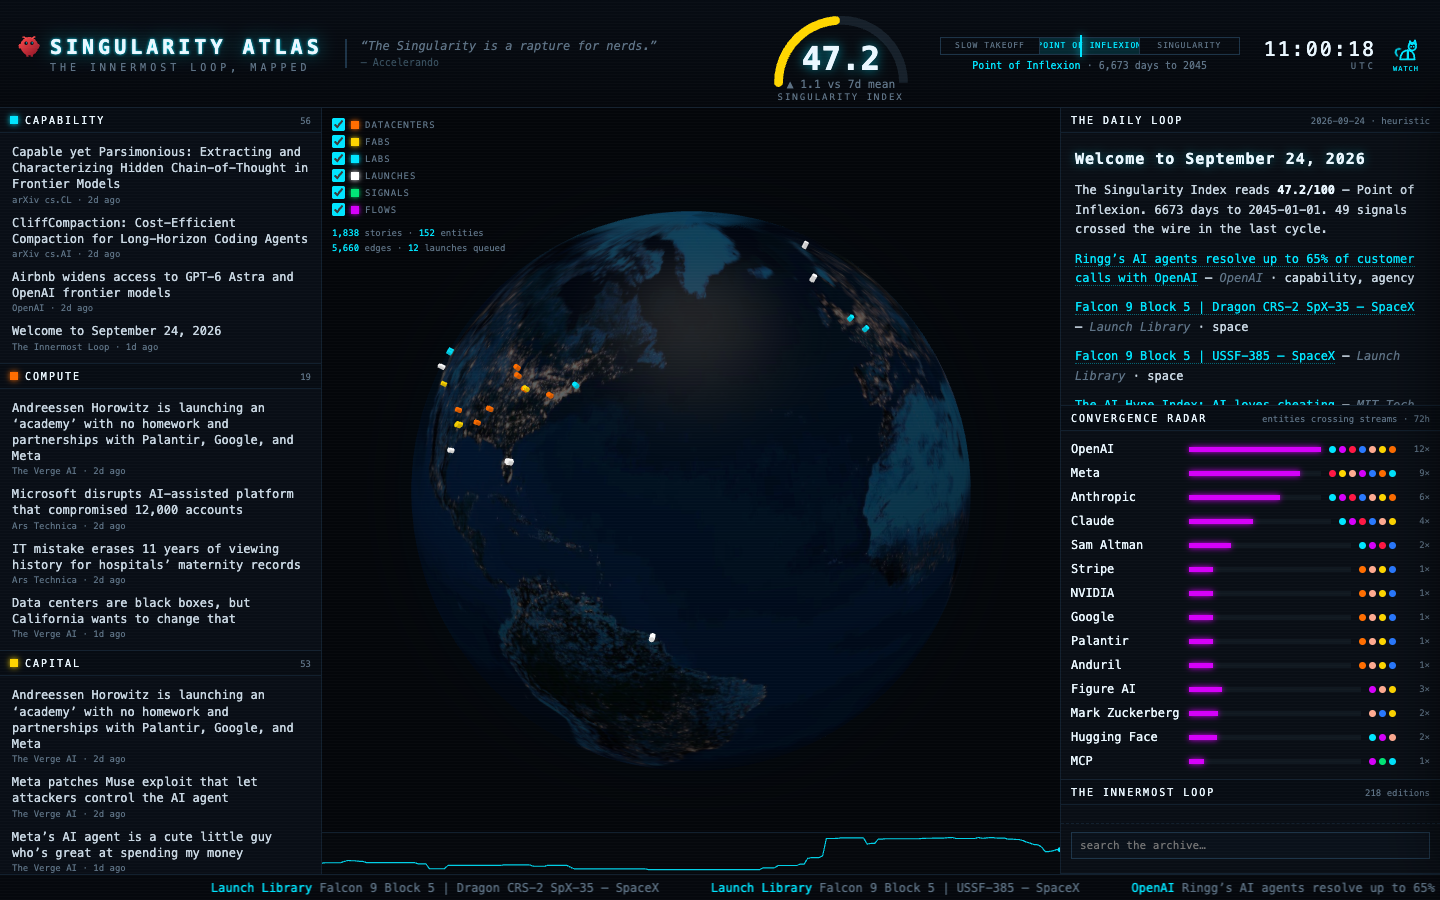
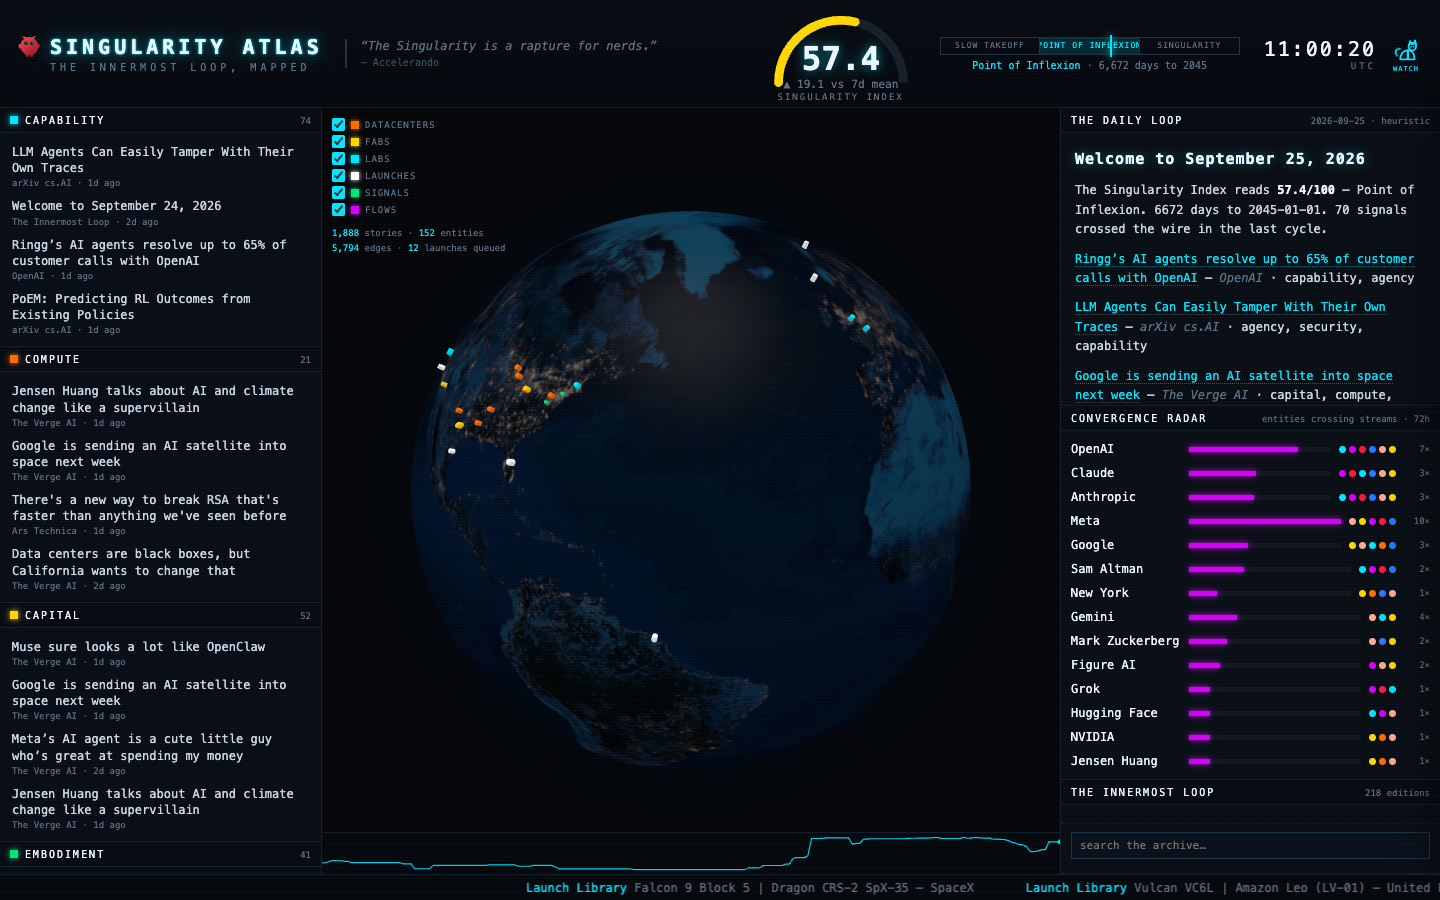
Publish 24h public snapshot 2026-09-26

diff --git a/docs/index.html b/docs/index.html
@@ -47,36 +47,36 @@
     <div class="eyebrow">Public 24h snapshot · not the live globe</div>
     <h1>The Singularity Atlas</h1>
     <p class="lede">Yesterday's board. The live dashboard stays on the machine that runs it. This page is replaced at least daily.</p>
-    <p class="meta">Captured 2026-09-25 07:00 EDT · 49 stories in 24h · graph 1838 stories / 152 entities · brief heuristic</p>
+    <p class="meta">Captured 2026-09-26 07:00 EDT · 70 stories in 24h · graph 1888 stories / 152 entities · brief heuristic</p>
   </header>
   <main>
     <div class="hero">
       <div>
-        <div class="si">47.2<small>Point of Inflexion · /100</small></div>
+        <div class="si">57.4<small>Point of Inflexion · /100</small></div>
       </div>
-      <div class="vecs"><div class="vec"><span class="dot" style="background:#00e5ff"></span><span class="vlabel">Capability</span><span class="vscore">56.4</span></div><div class="vec"><span class="dot" style="background:#ff6d00"></span><span class="vlabel">Compute</span><span class="vscore">19.2</span></div><div class="vec"><span class="dot" style="background:#ffd600"></span><span class="vlabel">Capital</span><span class="vscore">53.4</span></div><div class="vec"><span class="dot" style="background:#00e676"></span><span class="vlabel">Embodiment</span><span class="vscore">8.2</span></div><div class="vec"><span class="dot" style="background:#d500f9"></span><span class="vlabel">Agency</span><span class="vscore">57.2</span></div><div class="vec"><span class="dot" style="background:#ff1744"></span><span class="vlabel">Security</span><span class="vscore">21.1</span></div><div class="vec"><span class="dot" style="background:#2979ff"></span><span class="vlabel">Space</span><span class="vscore">68.1</span></div><div class="vec"><span class="dot" style="background:#ffab91"></span><span class="vlabel">Culture</span><span class="vscore">57.0</span></div></div>
+      <div class="vecs"><div class="vec"><span class="dot" style="background:#00e5ff"></span><span class="vlabel">Capability</span><span class="vscore">73.6</span></div><div class="vec"><span class="dot" style="background:#ff6d00"></span><span class="vlabel">Compute</span><span class="vscore">21.3</span></div><div class="vec"><span class="dot" style="background:#ffd600"></span><span class="vlabel">Capital</span><span class="vscore">51.7</span></div><div class="vec"><span class="dot" style="background:#00e676"></span><span class="vlabel">Embodiment</span><span class="vscore">41.1</span></div><div class="vec"><span class="dot" style="background:#d500f9"></span><span class="vlabel">Agency</span><span class="vscore">68.4</span></div><div class="vec"><span class="dot" style="background:#ff1744"></span><span class="vlabel">Security</span><span class="vscore">38.0</span></div><div class="vec"><span class="dot" style="background:#2979ff"></span><span class="vlabel">Space</span><span class="vscore">65.5</span></div><div class="vec"><span class="dot" style="background:#ffab91"></span><span class="vlabel">Culture</span><span class="vscore">53.3</span></div></div>
     </div>
     <img class="board" src="board.png" alt="The Singularity Atlas dashboard, last capture" />
     <div class="grid">
       <section class="brief">
         <h2>The Daily Loop</h2>
-        <h2>Welcome to September 24, 2026</h2>
-<p>The Singularity Index reads <strong>47.2/100</strong> — Point of Inflexion. 6673 days to 2045-01-01. 49 signals crossed the wire in the last cycle.</p>
+        <h2>Welcome to September 25, 2026</h2>
+<p>The Singularity Index reads <strong>57.4/100</strong> — Point of Inflexion. 6672 days to 2045-01-01. 70 signals crossed the wire in the last cycle.</p>
 <p><a href="https://openai.com/index/ringg">Ringg’s AI agents resolve up to 65% of customer calls with OpenAI</a> — *OpenAI* · capability, agency</p>
+<p><a href="https://arxiv.org/abs/2609.30266v1">LLM Agents Can Easily Tamper With Their Own Traces</a> — *arXiv cs.AI* · agency, security, capability</p>
+<p><a href="https://www.theverge.com/tech/1000015/google-ai-satellite-space-project-suncatcher">Google is sending an AI satellite into space next week</a> — *The Verge AI* · capital, compute, space, culture</p>
 <p><a href="https://ll.thespacedevs.com/2.2.0/launch/bf2c3027-a314-403e-a416-2bfd5d165ad1/">Falcon 9 Block 5 | Dragon CRS-2 SpX-35 — SpaceX</a> — *Launch Library* · space</p>
 <p><a href="https://ll.thespacedevs.com/2.2.0/launch/7330d83b-c478-426c-8859-f9e3a335876d/">Falcon 9 Block 5 | USSF-385 — SpaceX</a> — *Launch Library* · space</p>
-<p><a href="https://www.technologyreview.com/2026/09/23/1144940/ai-hype-index-ai-loves-cheating/">The AI Hype Index: AI loves cheating</a> — *MIT Tech Review AI* · capability, agency, culture</p>
 <p><a href="https://ll.thespacedevs.com/2.2.0/launch/97c6f5e1-299e-4652-b72d-9618ac047076/">Falcon 9 Block 5 | Starlink Group 15-25 — SpaceX</a> — *Launch Library* · space</p>
-<p><a href="https://openai.com/index/airbnb-gpt-6-astra">Airbnb widens access to GPT-6 Astra and OpenAI frontier models</a> — *OpenAI* · capability, agency</p>
+<p><a href="https://www.theverge.com/report/1000180/muse-openclaw-instinct-lookalike">Muse sure looks a lot like OpenClaw</a> — *The Verge AI* · capital, culture, agency</p>
+<p><a href="https://ll.thespacedevs.com/2.2.0/launch/d3bd7fb2-fac6-49fc-ae52-cee07d2fde67/">Falcon Heavy | Griffin Mission One — SpaceX</a> — *Launch Library* · space</p>
+<p><a href="https://www.theverge.com/tech/1000140/jensen-huang-nvidia-ai-energy-climate-change-supervillain">Jensen Huang talks about AI and climate change like a supervillain</a> — *The Verge AI* · capital, compute, culture</p>
 <p><a href="https://ll.thespacedevs.com/2.2.0/launch/ef9850ad-1096-425b-9d27-f7bbd186e61a/">Vulcan VC6L | Amazon Leo (LV-01) — United Launch Alliance</a> — *Launch Library* · space</p>
-<p><a href="https://www.theverge.com/ai-artificial-intelligence/999526/meta-muse-ai-agent-hands-on-shopping">Meta’s AI agent is a cute little guy who’s great at spending my money</a> — *The Verge AI* · agency, culture, capital</p>
-<p><a href="https://ll.thespacedevs.com/2.2.0/launch/ad358a4d-c541-409b-9366-9c2f2da4aeb9/">Falcon 9 Block 5 | O3b mPower 11-13 — SpaceX</a> — *Launch Library* · space</p>
-<p><a href="https://ll.thespacedevs.com/2.2.0/launch/da43dc2c-00af-4cc1-8ef1-90a60b2eb9e5/">Falcon 9 Block 5 | SDA Tranche 1 Transport Layer A — SpaceX</a> — *Launch Library* · space</p>
 <p>*Heuristic edition — local LLM offline.*</p>
       </section>
       <aside>
         <h2>Crossing streams</h2>
-        <ul><li><strong>OpenAI</strong> <span class="muted">capability, agency, security, space, culture, capital, compute</span></li><li><strong>Meta</strong> <span class="muted">security, capital, culture, agency, space, compute, capability</span></li><li><strong>Anthropic</strong> <span class="muted">capability, agency, security, space, culture, capital, compute</span></li><li><strong>Claude</strong> <span class="muted">capability, agency, security, space, culture, capital</span></li><li><strong>Sam Altman</strong> <span class="muted">capability, agency, security, space</span></li><li><strong>Stripe</strong> <span class="muted">compute, culture, capital, space</span></li><li><strong>NVIDIA</strong> <span class="muted">compute, culture, capital, space</span></li><li><strong>Google</strong> <span class="muted">compute, culture, capital, space</span></li><li><strong>Palantir</strong> <span class="muted">compute, culture, capital, space</span></li><li><strong>Anduril</strong> <span class="muted">compute, culture, capital, space</span></li><li><strong>Figure AI</strong> <span class="muted">agency, culture, capital</span></li><li><strong>Mark Zuckerberg</strong> <span class="muted">culture, space, capital</span></li></ul>
+        <ul><li><strong>OpenAI</strong> <span class="muted">capability, agency, security, space, culture, capital</span></li><li><strong>Claude</strong> <span class="muted">agency, security, capability, space, culture, capital</span></li><li><strong>Anthropic</strong> <span class="muted">capability, agency, security, space, culture, capital</span></li><li><strong>Meta</strong> <span class="muted">culture, capital, agency, security, space</span></li><li><strong>Google</strong> <span class="muted">capital, culture, capability, compute, space</span></li><li><strong>Sam Altman</strong> <span class="muted">capability, agency, security, space</span></li><li><strong>New York</strong> <span class="muted">capital, compute, space, culture</span></li><li><strong>Gemini</strong> <span class="muted">culture, capability, capital</span></li><li><strong>Mark Zuckerberg</strong> <span class="muted">culture, space, capital</span></li><li><strong>Figure AI</strong> <span class="muted">agency, culture, capital</span></li><li><strong>Grok</strong> <span class="muted">agency, security, capability</span></li><li><strong>Hugging Face</strong> <span class="muted">capability, agency, culture</span></li></ul>
         <h2>Feeds 13/15</h2>
         <ul><li class="ok"><code>verge-ai</code> 10 items</li><li class="ok"><code>arxiv-cs-lg</code> 12 items</li><li class="ok"><code>arxiv-cs-ai</code> 12 items</li><li class="ok"><code>launches</code> 20 items</li><li class="ok"><code>ars</code> 20 items</li><li class="ok"><code>arxiv-cs-cl</code> 12 items</li><li class="ok"><code>mit-tr-ai</code> 10 items</li><li class="ok"><code>interconnects</code> 20 items</li><li class="ok"><code>import-ai</code> 20 items</li><li class="ok"><code>openai</code> 25 items</li><li class="ok"><code>deepmind</code> 25 items</li><li class="fail"><code>venturebeat-ai</code> 0 items · venturebeat-ai: HTTPStatusError: Client error &#x27;429 Too Many Requests&#x27; for url &#x27;https://venturebeat.com/category/ai/feed/&#x27;
 For more information check: https://developer.mozilla.org/en-US/docs/Web/HTTP/Status/429</li><li class="ok"><code>arxiv-cs-ro</code> 12 items</li><li class="ok"><code>hn-ai</code> 71 items</li><li class="fail"><code>gdelt-ai</code> 0 items · gdelt-ai: HTTPStatusError: Client error &#x27;429 Too Many Requests&#x27; for url &#x27;https://api.gdeltproject.org/api/v2/doc/doc?query=%22artificial%20intelligence%22&amp;mode=artlist&amp;maxrecords=40&amp;format=json&amp;sort=hybridrel&#x27;
